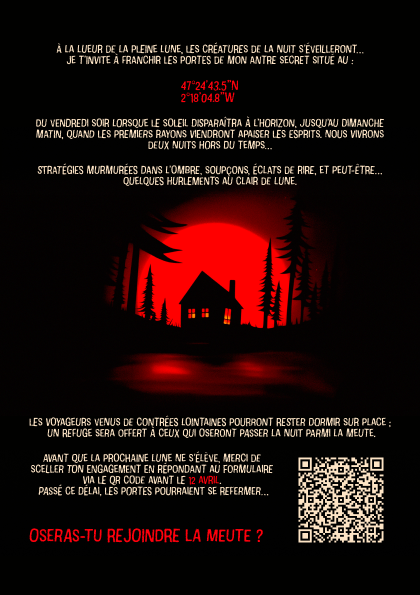
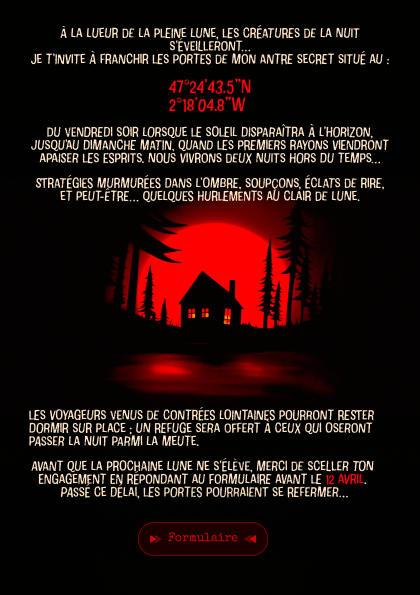
adding btn formulaire

Changed region(s): [[0.0619, 0.0303, 0.9286, 0.363], [0.0619, 0.6655, 0.9286, 0.9378], [0.0619, 0.8773, 0.65, 0.9378]]

diff --git a/index.html b/index.html
@@ -14,7 +14,7 @@
         justify-content: center;
         align-items: center;
         min-height: 100vh;
-        background-color: #0b0c10; /* Noir profond */
+        background-color: #0b0c10;
         background-image: radial-gradient(#1f2833 1px, transparent 1px);
         background-size: 30px 30px;
         font-family: "Segoe UI", Tahoma, Geneva, Verdana, sans-serif;
@@ -22,22 +22,10 @@
         overflow: hidden;
       }
 
-      @keyframes pulse {
-        0% {
-          opacity: 0.5;
-        }
-        50% {
-          opacity: 1;
-        }
-        100% {
-          opacity: 0.5;
-        }
-      }
-
       /* --- CONTENEUR DE LA CARTE --- */
       .flip-card-container {
-        width: 320px; /* Taille optimisée mobile */
-        height: 452px; /* Ratio A5 */
+        width: 320px;
+        height: 452px;
         perspective: 1500px;
         cursor: pointer;
       }
@@ -50,7 +38,6 @@
         transform-style: preserve-3d;
       }
 
-      /* Classe activée par le clic */
       .is-flipped {
         transform: rotateY(180deg);
       }
@@ -75,18 +62,36 @@
         display: block;
       }
 
-      /* --- FACE VERSO --- */
       .flip-card-back {
         transform: rotateY(180deg);
         background-color: #1a1a1a;
       }
 
-      /* --- INDICATION --- */
+      /* --- LA DIV CLIQUABLE (BOUTON) --- */
+      .zone-lien {
+        position: absolute;
+        /* --- AJUSTE CES 4 VALEURS POUR PLACER TON LIEN --- */
+        bottom: 10px; /* Distance depuis le haut */
+        left: 50%; /* Centré horizontalement */
+        width: 130px; /* Largeur de la zone cliquable */
+        height: 34px; /* Hauteur de la zone cliquable */
+        transform: translate(-50%, -50%);
+        /* ----------------------------------------------- */
+
+        display: flex;
+        justify-content: center;
+        align-items: center;
+        text-decoration: none;
+        color: white;
+        font-weight: bold;
+        z-index: 100;
+      }
+
       .instruction {
-        margin-top: 25px;
-        font-size: 0.9rem;
+        margin-top: 20px;
         color: #666;
-        font-style: italic;
+        font-size: 0.8rem;
+        letter-spacing: 1px;
       }
     </style>
   </head>
@@ -107,6 +112,13 @@
             alt="Invitation Verso"
             class="invitation-image"
           />
+
+          <a
+            href="https://forms.gle/XF74WnD6WB8JwgfBA"
+            class="zone-lien"
+            id="btnInvite"
+          >
+          </a>
         </div>
       </div>
     </div>
@@ -117,7 +129,13 @@
       const card = document.getElementById("myCard");
       const cardInner = document.getElementById("cardInner");
       const musique = document.getElementById("musique");
+      const btnInvite = document.getElementById("btnInvite");
       let hasPlayed = false;
+
+      // EMPECHE LE RETOURNEMENT QUAND ON CLIQUE SUR LE LIEN
+      btnInvite.addEventListener("click", function (e) {
+        e.stopPropagation();
+      });
 
       card.addEventListener("click", function () {
         // Retourne la carte
@@ -125,11 +143,8 @@
 
         // Lance la musique au premier clic
         if (!hasPlayed) {
-          // Fade in progressif du volume
           musique.volume = 0;
-          musique
-            .play()
-            .catch((e) => console.log("Audio bloqué par le navigateur"));
+          musique.play().catch((e) => console.log("Audio bloqué"));
 
           let vol = 0;
           const fadeIn = setInterval(() => {
